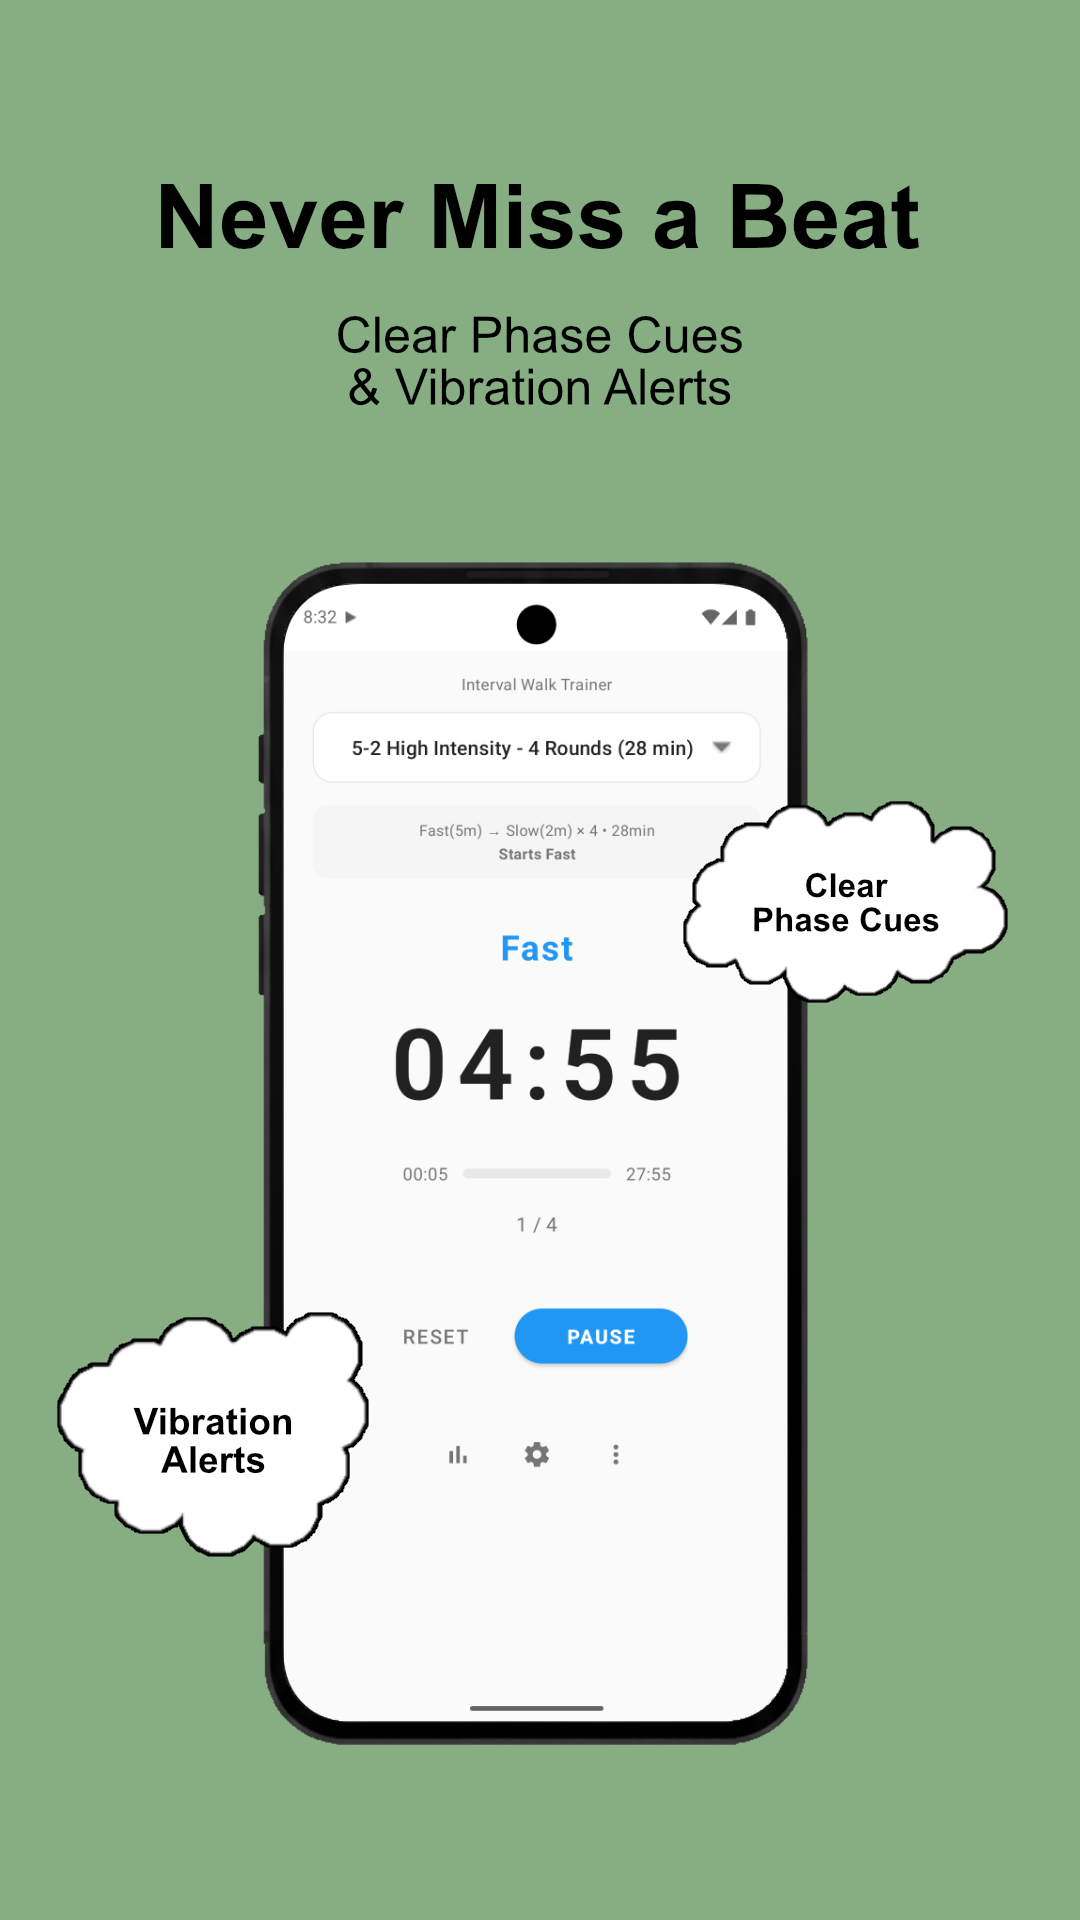
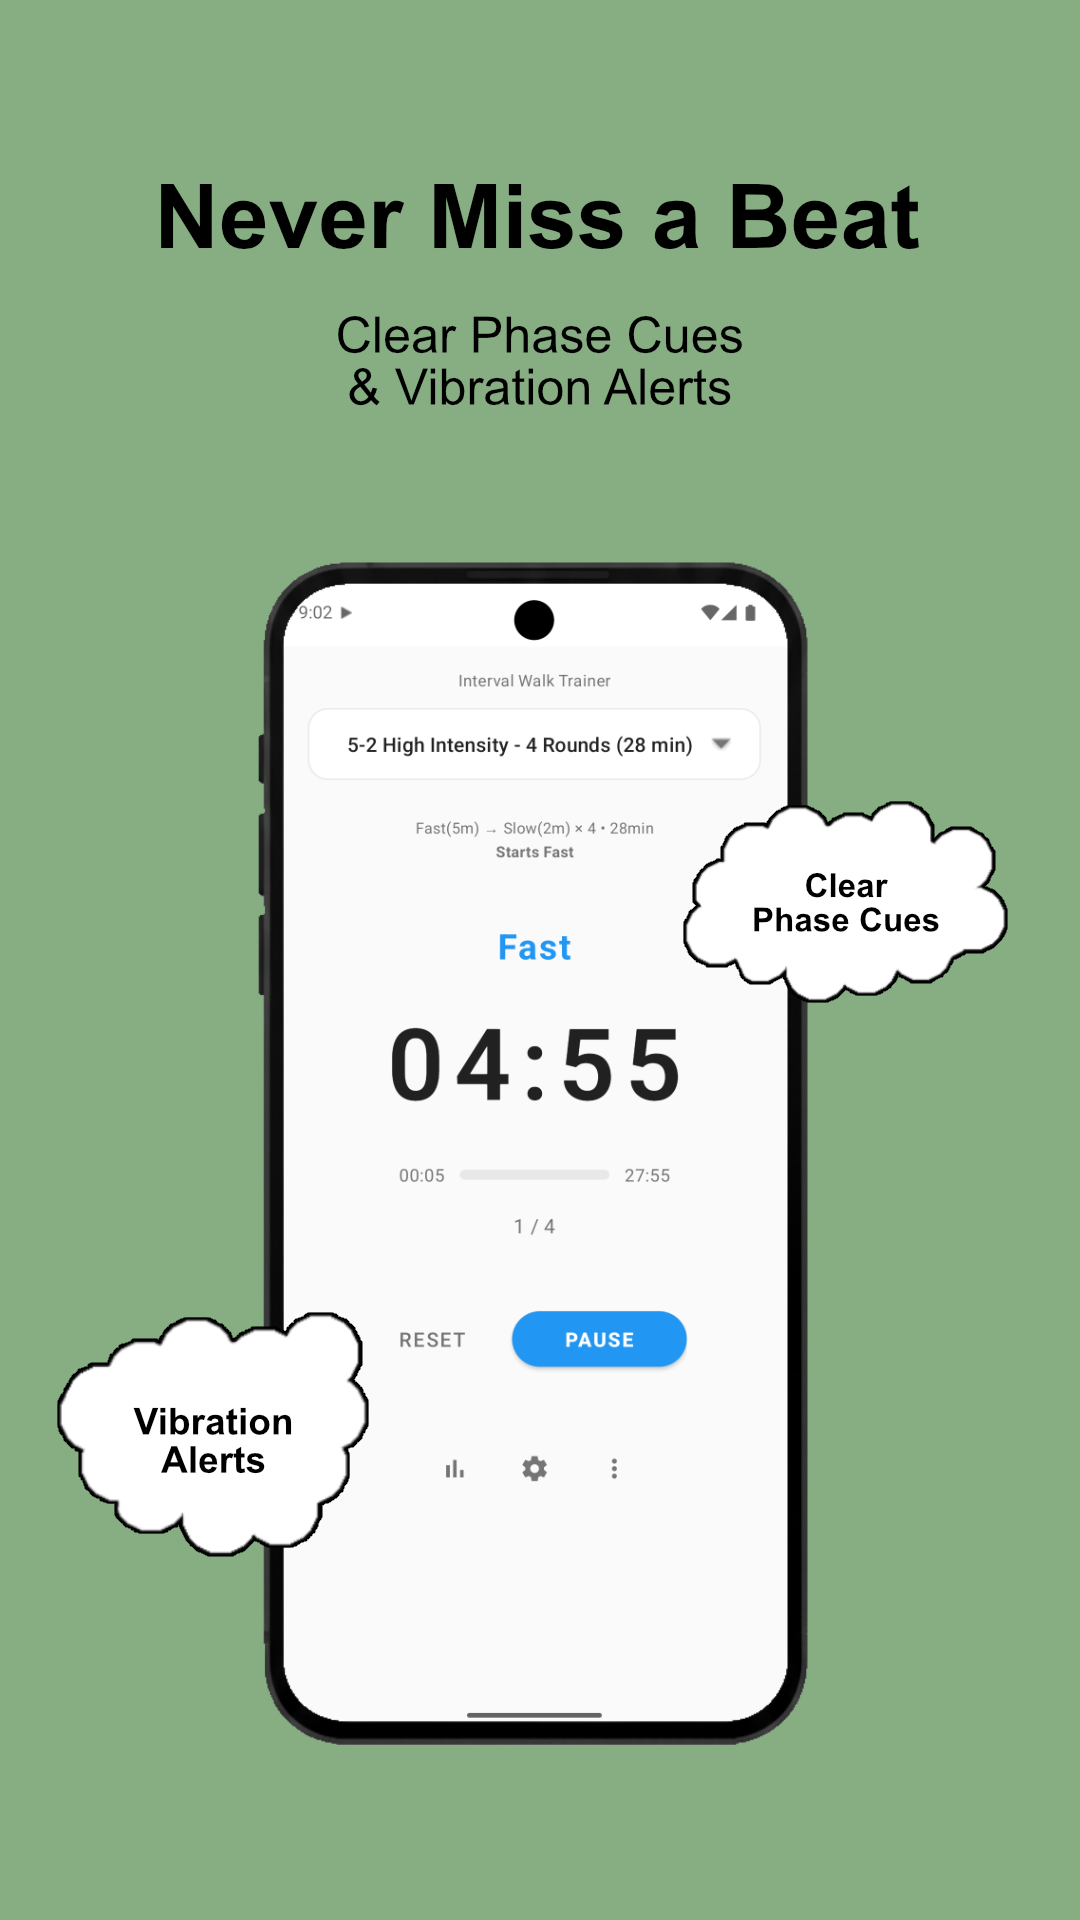
fix(release): v1.1.12
Fix restored interval elapsed/remaining drift (including fast-start) and refine main-screen hint placement.

diff --git a/app/src/test/java/com/oceanofmaya/intervalwalktrainer/IntervalTimerTest.kt b/app/src/test/java/com/oceanofmaya/intervalwalktrainer/IntervalTimerTest.kt
@@ -192,11 +192,10 @@ class IntervalTimerTest {
         assertEquals(2, state.timeRemainingSeconds)
         assertEquals(1, state.currentInterval)
         // Elapsed calculation: 
-        // - completedIntervals = 1 (fast phase means interval 1 is complete)
-        // - completedPhasesTime = 1 * (3+2) = 5 seconds
-        // - currentPhaseElapsed = 2 - 2 = 0 (fast phase just started)
-        // - totalElapsedSeconds = 5 + 0 = 5
-        assertEquals(5, state.elapsedSeconds)
+        // - interval 1 slow is complete: 3 seconds
+        // - fast phase just started: +0 seconds
+        // - totalElapsedSeconds = 3
+        assertEquals(3, state.elapsedSeconds)
         assertFalse(state.isRunning)
     }
 
@@ -586,11 +585,132 @@ class IntervalTimerTest {
         
         val state = timer.state.value
         // Elapsed calculation:
-        // - completedIntervals = 1 (fast phase means interval 1 is complete)
-        // - completedPhasesTime = 1 * (3+2) = 5
+        // - interval 1 slow is complete: 3
         // - currentPhaseElapsed = 2 - 1 = 1 (1 second elapsed in fast phase)
-        // - totalElapsedSeconds = 5 + 1 = 6
-        assertEquals(6, state.elapsedSeconds)
+        // - totalElapsedSeconds = 3 + 1 = 4
+        assertEquals(4, state.elapsedSeconds)
+    }
+
+    @Test
+    fun `restoreState keeps elapsed and remaining aligned for 3-3x5 fast phase`() {
+        val japaneseFormula = IntervalFormula(
+            name = "3-3 x 5",
+            slowDurationSeconds = 180,
+            fastDurationSeconds = 180,
+            totalIntervals = 5,
+            startsWithFast = false
+        )
+        val timer = createTimer(japaneseFormula)
+
+        // Round 4 fast just started: completed = 3 full rounds + slow of round 4 = 21 minutes.
+        timer.restoreState(
+            timeRemainingSeconds = 180,
+            currentInterval = 4,
+            currentPhase = IntervalPhase.Fast,
+            isRunning = false
+        )
+
+        val state = timer.state.value
+        val expectedElapsed = 21 * 60
+        val expectedRemaining = japaneseFormula.totalDurationSeconds - expectedElapsed
+
+        assertEquals(IntervalPhase.Fast, state.currentPhase)
+        assertEquals(expectedElapsed, state.elapsedSeconds)
+        assertEquals(expectedRemaining, japaneseFormula.totalDurationSeconds - state.elapsedSeconds)
+    }
+
+    @Test
+    fun `restoreState calculates elapsed time for fast-start fast phase`() {
+        val fastStartFormula = IntervalFormula(
+            name = "Fast Start Elapsed",
+            slowDurationSeconds = 2,
+            fastDurationSeconds = 5,
+            totalIntervals = 4,
+            startsWithFast = true
+        )
+        val timer = createTimer(fastStartFormula)
+
+        timer.restoreState(
+            timeRemainingSeconds = 4,
+            currentInterval = 3,
+            currentPhase = IntervalPhase.Fast,
+            isRunning = false
+        )
+
+        val state = timer.state.value
+        // Fast-start, interval 3 fast with 1 second elapsed:
+        // (3 - 1) * (5 + 2) + 1 = 15
+        assertEquals(15, state.elapsedSeconds)
+    }
+
+    @Test
+    fun `restoreState calculates elapsed time for fast-start slow phase`() {
+        val fastStartFormula = IntervalFormula(
+            name = "Fast Start Slow Elapsed",
+            slowDurationSeconds = 2,
+            fastDurationSeconds = 5,
+            totalIntervals = 4,
+            startsWithFast = true
+        )
+        val timer = createTimer(fastStartFormula)
+
+        timer.restoreState(
+            timeRemainingSeconds = 1,
+            currentInterval = 3,
+            currentPhase = IntervalPhase.Slow,
+            isRunning = false
+        )
+
+        val state = timer.state.value
+        // Fast-start, display interval 3 slow with 1 second elapsed:
+        // (3 - 2) * (5 + 2) + 5 + 1 = 13
+        assertEquals(13, state.elapsedSeconds)
+    }
+
+    @Test
+    fun `restoreState uses saved elapsed seconds for fast-start trailing slow`() {
+        val fastStartFormula = IntervalFormula(
+            name = "Fast Start Trailing Slow",
+            slowDurationSeconds = 2,
+            fastDurationSeconds = 5,
+            totalIntervals = 4,
+            startsWithFast = true
+        )
+        val timer = createTimer(fastStartFormula)
+
+        timer.restoreState(
+            timeRemainingSeconds = 2,
+            currentInterval = 4,
+            currentPhase = IntervalPhase.Slow,
+            isRunning = false,
+            savedElapsedSeconds = 26
+        )
+
+        val state = timer.state.value
+        assertEquals(26, state.elapsedSeconds)
+    }
+
+    @Test
+    fun `restoreState fallback math handles fast-start trailing slow without saved elapsed`() {
+        val fastStartFormula = IntervalFormula(
+            name = "Fast Start Trailing Slow Fallback",
+            slowDurationSeconds = 2,
+            fastDurationSeconds = 5,
+            totalIntervals = 4,
+            startsWithFast = true
+        )
+        val timer = createTimer(fastStartFormula)
+
+        timer.restoreState(
+            timeRemainingSeconds = 2,
+            currentInterval = 4,
+            currentPhase = IntervalPhase.Slow,
+            isRunning = false
+        )
+
+        val state = timer.state.value
+        // Trailing slow starts after F1,S2,F2,S3,F3,S4,F4 = 26 seconds elapsed.
+        assertEquals(26, state.elapsedSeconds)
     }
 
     @Test

diff --git a/app/src/main/java/com/oceanofmaya/intervalwalktrainer/IntervalTimer.kt b/app/src/main/java/com/oceanofmaya/intervalwalktrainer/IntervalTimer.kt
@@ -316,23 +316,20 @@ class IntervalTimer(
         timeRemainingSeconds: Int,
         currentInterval: Int,
         currentPhase: IntervalPhase,
-        isRunning: Boolean
+        isRunning: Boolean,
+        savedElapsedSeconds: Int? = null
     ) {
         countDownTimer?.cancel()
         currentIntervalIndex = currentInterval - 1
         isSlowPhase = currentPhase is IntervalPhase.Slow
         phaseStartTime = if (isSlowPhase) formula.slowDurationSeconds else formula.fastDurationSeconds
 
-        totalElapsedSeconds = if (formula.isCircuit) {
+        val computedElapsed = if (formula.isCircuit) {
             circuitElapsedSeconds(currentInterval, isSlowPhase, timeRemainingSeconds)
         } else {
-            val completedIntervals = if (currentInterval > 0) {
-                if (isSlowPhase) currentInterval - 1 else currentInterval
-            } else 0
-            val completedPhasesTime = completedIntervals * (formula.slowDurationSeconds + formula.fastDurationSeconds)
-            val currentPhaseElapsed = phaseStartTime - timeRemainingSeconds
-            completedPhasesTime + currentPhaseElapsed
+            intervalModeElapsedSeconds(currentInterval, currentPhase, timeRemainingSeconds)
         }
+        totalElapsedSeconds = (savedElapsedSeconds ?: computedElapsed).coerceIn(0, formula.totalDurationSeconds)
 
         _state.value = TimerState(
             currentPhase = currentPhase,
@@ -370,6 +367,53 @@ class IntervalTimer(
         val elapsedInRound = if (currentInterval <= 0) 0
         else elapsedInCircuitRound(currentInterval, isSlowPhase, timeRemainingSeconds)
         return completedRounds * roundDuration + elapsedInRound.coerceIn(0, roundDuration)
+    }
+
+    /**
+     * Elapsed seconds for interval mode from restored state.
+     * For slow-start formulas, currentInterval is the active/display interval.
+     */
+    private fun intervalModeElapsedSeconds(
+        currentInterval: Int,
+        currentPhase: IntervalPhase,
+        timeRemainingSeconds: Int
+    ): Int {
+        val slow = formula.slowDurationSeconds
+        val fast = formula.fastDurationSeconds
+        val cycleDuration = slow + fast
+
+        val elapsed = when {
+            currentPhase is IntervalPhase.Completed -> formula.totalDurationSeconds
+            currentInterval <= 0 -> 0
+            !formula.startsWithFast -> {
+                when (currentPhase) {
+                    is IntervalPhase.Slow ->
+                        ((currentInterval - 1) * cycleDuration) + (slow - timeRemainingSeconds)
+                    is IntervalPhase.Fast ->
+                        ((currentInterval - 1) * cycleDuration) + slow + (fast - timeRemainingSeconds)
+                    is IntervalPhase.Completed -> formula.totalDurationSeconds
+                }
+            }
+            else -> {
+                // Fast-start interval mode sequence: Fast(1), Slow(2), Fast(2), Slow(3), ... Fast(N), Slow(N trailing).
+                when (currentPhase) {
+                    is IntervalPhase.Fast -> ((currentInterval - 1) * cycleDuration) + (fast - timeRemainingSeconds)
+                    is IntervalPhase.Slow -> {
+                        if (currentInterval >= formula.totalIntervals) {
+                            // Final trailing slow occurs after an additional fast phase.
+                            ((currentInterval - 1).coerceAtLeast(0) * cycleDuration) +
+                                fast + (slow - timeRemainingSeconds)
+                        } else {
+                            ((currentInterval - 2).coerceAtLeast(0) * cycleDuration) +
+                                fast + (slow - timeRemainingSeconds)
+                        }
+                    }
+                    is IntervalPhase.Completed -> formula.totalDurationSeconds
+                }
+            }
+        }
+
+        return elapsed.coerceIn(0, formula.totalDurationSeconds)
     }
 
     private fun elapsedInCircuitRound(currentInterval: Int, isSlowPhase: Boolean, timeRemainingSeconds: Int): Int {

diff --git a/app/src/main/java/com/oceanofmaya/intervalwalktrainer/MainActivity.kt b/app/src/main/java/com/oceanofmaya/intervalwalktrainer/MainActivity.kt
@@ -145,6 +145,7 @@ open class MainActivity : AppCompatActivity() {
         private const val KEY_SAVED_CURRENT_INTERVAL = "saved_current_interval"
         private const val KEY_SAVED_IS_RUNNING = "saved_is_running"
         private const val KEY_SAVED_PHASE = "saved_phase"
+        private const val KEY_SAVED_ELAPSED_SECONDS = "saved_elapsed_seconds"
         private const val KEY_SAVED_COMPLETION_AT_MILLIS = "saved_completion_at_millis"
         
         // Wake lock configuration
@@ -312,6 +313,7 @@ open class MainActivity : AppCompatActivity() {
             outState.putInt(KEY_SAVED_TIME_REMAINING, timerState.timeRemainingSeconds)
             outState.putInt(KEY_SAVED_CURRENT_INTERVAL, timerState.currentInterval)
             outState.putBoolean(KEY_SAVED_IS_RUNNING, timerState.isRunning)
+            outState.putInt(KEY_SAVED_ELAPSED_SECONDS, timerState.elapsedSeconds)
             outState.putString(KEY_SAVED_PHASE, when (timerState.currentPhase) {
                 is IntervalPhase.Slow -> "slow"
                 is IntervalPhase.Fast -> "fast"
@@ -326,6 +328,7 @@ open class MainActivity : AppCompatActivity() {
         val savedTimeRemaining = savedInstanceState.getInt(KEY_SAVED_TIME_REMAINING, -1)
         val savedCurrentInterval = savedInstanceState.getInt(KEY_SAVED_CURRENT_INTERVAL, 0)
         val savedIsRunning = savedInstanceState.getBoolean(KEY_SAVED_IS_RUNNING, false)
+        val savedElapsedSeconds = savedInstanceState.getInt(KEY_SAVED_ELAPSED_SECONDS, -1)
         val savedPhase = savedInstanceState.getString(KEY_SAVED_PHASE, "slow")
         val savedCompletionAt = savedInstanceState.getLong(KEY_SAVED_COMPLETION_AT_MILLIS, -1L)
         completionAtMillis = if (savedCompletionAt > 0) savedCompletionAt else null
@@ -363,7 +366,8 @@ open class MainActivity : AppCompatActivity() {
                     timeRemainingSeconds = savedTimeRemaining,
                     currentInterval = savedCurrentInterval,
                     currentPhase = restoredPhase,
-                    isRunning = savedIsRunning
+                    isRunning = savedIsRunning,
+                    savedElapsedSeconds = savedElapsedSeconds.takeIf { it >= 0 }
                 )
                 
                 // Clear flag after restoration

diff --git a/.github/AGENTS.md b/.github/AGENTS.md
@@ -33,11 +33,15 @@ Use `feature/<description>` for all branches. Examples: `feature/add-mushroom-th
 
 Workflow: Create branch from `main` → Make changes → Update version/changelog if releasing → Open pull request → Merge to `main` via PR → GitHub Actions auto-creates tag `vX.Y.Z` from version in `app/build.gradle.kts` → Release workflow builds and publishes release.
 
-**All merges to `main` must occur through pull requests.**
+**All changes must be made on a `feature/*` branch (never commit directly to `main`).**
+
+**All merges to `main` must occur through pull requests, and all required PR checks must pass before merge.**
 
 ## Commit Messages
 
-Follow the [Conventional Commits](https://www.conventionalcommits.org/) specification. All commit messages must use the conventional commit format with appropriate types (feat, fix, docs, chore, refactor, etc.). e.g. `chore(release): add .kotlin/ to .gitignore`
+Follow the [Conventional Commits](https://www.conventionalcommits.org/) specification.
+
+For this repository's commit message policy (including `release`/`beta` scope conventions and examples), follow [`CONTRIBUTING.md`](../CONTRIBUTING.md).
 
 ## Linting
 

diff --git a/CONTRIBUTING.md b/CONTRIBUTING.md
@@ -1,0 +1,35 @@
+# Contributing
+
+## Branching and Pull Requests
+
+- Create all changes on a `feature/*` branch.
+- Do not commit directly to `main`.
+- Merge into `main` only via pull request.
+- Ensure all required PR checks pass before merge.
+
+## Release Flow
+
+- Branch from `main` using `feature/*`.
+- Make release changes (including `CHANGELOG.md`, `versionName`, and `versionCode`).
+- Open a PR to `main` and wait for all required checks to pass.
+- Merge PR; GitHub Actions creates tag `vX.Y.Z` and runs release publishing.
+
+## Commit Messages
+
+Use [Conventional Commits](https://www.conventionalcommits.org/) for all commits.
+
+- Use a conventional type with scope, e.g. `feat(scope): ...`, `fix(scope): ...`
+- For release-related commits, use scope `release` or `beta`
+- Preferred release titles:
+  - `feat(release): v1.x.x`
+  - `feat(beta): v1.x.x-beta.x`
+- Add a concise body (1-3 short lines) describing key changes
+
+Example:
+
+```text
+feat(release): v1.1.12
+
+- Fix interval elapsed/remaining restore drift.
+- Move workout hint below formula selector.
+```

diff --git a/CHANGELOG.md b/CHANGELOG.md
@@ -2,6 +2,17 @@
 
 ## Version 1
 
+### 1.1.12 - 2026-03-18
+
+#### Fixes
+
+- Fixed elapsed/remaining time drift after restoring interval workouts for both starts-slow and starts-fast formulas.
+
+#### UI/UX Improvements
+
+- Moved the main workout hint to sit below the formula selector in both portrait and landscape.
+- Store screenshots and promo images updated.
+
 ### 1.1.11 - 2026-03-12
 
 #### UI/UX Improvements
